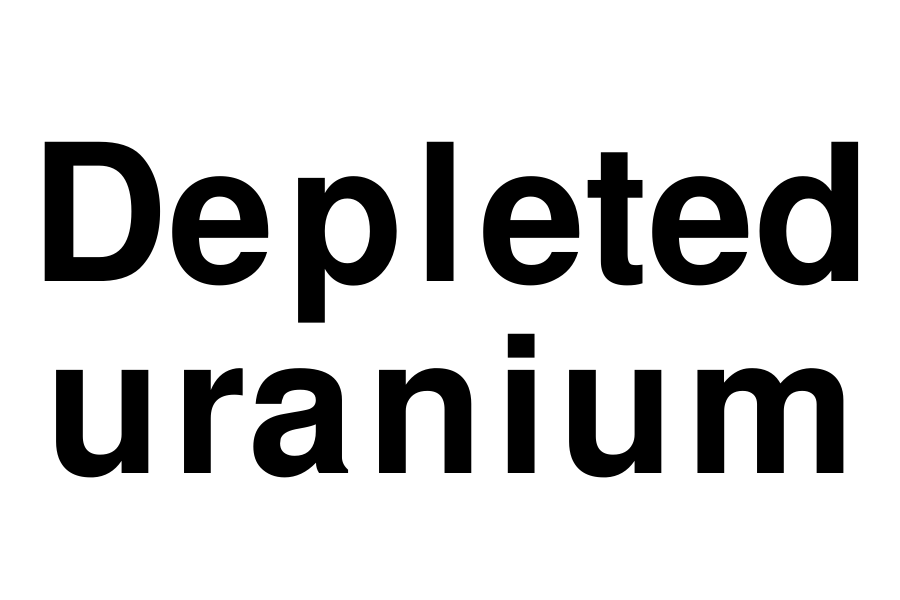
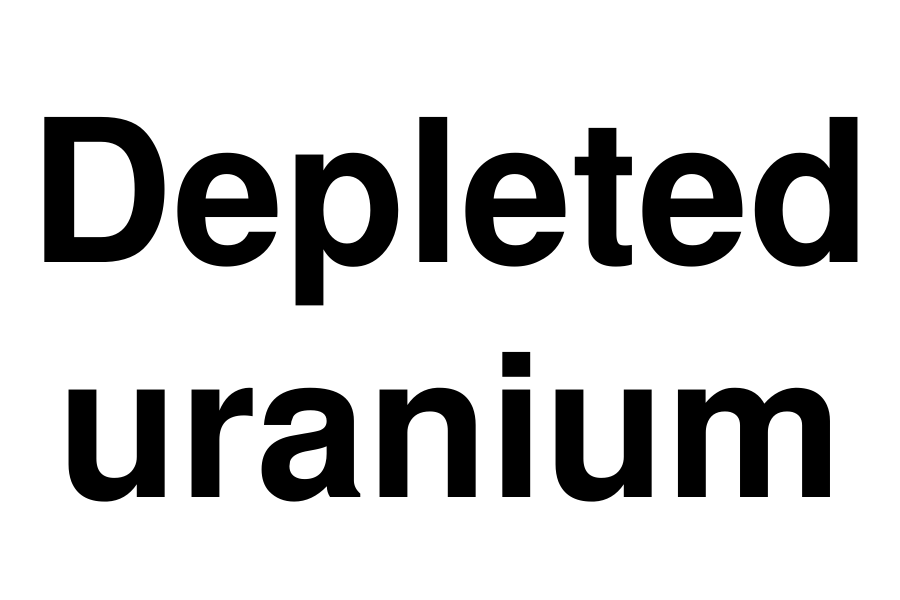
Fixing sudden kerning problem
Something broke the kerning but layout_engine=ImageFont.Layout.BASIC seems to fix it.

Changed region(s): [[0.0311, 0.18, 0.9644, 0.54], [0.0622, 0.6, 0.5289, 0.84], [0.56, 0.54, 0.9644, 0.84]]

diff --git a/jamie.py b/jamie.py
@@ -39,7 +39,7 @@ for seppattern in range(2**(len(words)-1)):
     while textWidth < maxwidth and textHeight < maxheight:
         fontsize += 1
         # textWidth, textHeight = imgDraw.textsize(testmessage, font=ImageFont.truetype("FreeSansBold.ttf", size=fontsize))
-        left, top, right, bottom = imgDraw.multiline_textbbox((0,0), testmessage, font=ImageFont.truetype("FreeSansBold.ttf", size=fontsize))
+        left, top, right, bottom = imgDraw.multiline_textbbox((0,0), testmessage, font=ImageFont.truetype("FreeSansBold.ttf", size=fontsize, layout_engine=ImageFont.Layout.BASIC))
         textWidth, textHeight = right - left, bottom - top
     print(repr(testmessage), fontsize, end="")
     if fontsize > bestfontsize:
@@ -52,8 +52,8 @@ for seppattern in range(2**(len(words)-1)):
         print()
 
 print("Making label with", repr(bestmessage))
-imgDraw.text((width/2, height/2), bestmessage, font=ImageFont.truetype("FreeSansBold.ttf",
-              size=bestfontsize), fill=(0,0,0), align="center", anchor="mm", spacing=-30)
+imgDraw.multiline_text((width/2, height/2), bestmessage, font=ImageFont.truetype("FreeSansBold.ttf",
+              size=bestfontsize, layout_engine=ImageFont.Layout.BASIC), fill=(0,0,0), align="center", anchor="mm")
 img.save('label.png')
 if len(sys.argv) > 1:  # don't print the test message
     os.system("lpr -P iDPRT_SP410 -o media=Custom.3x2in label.png")
